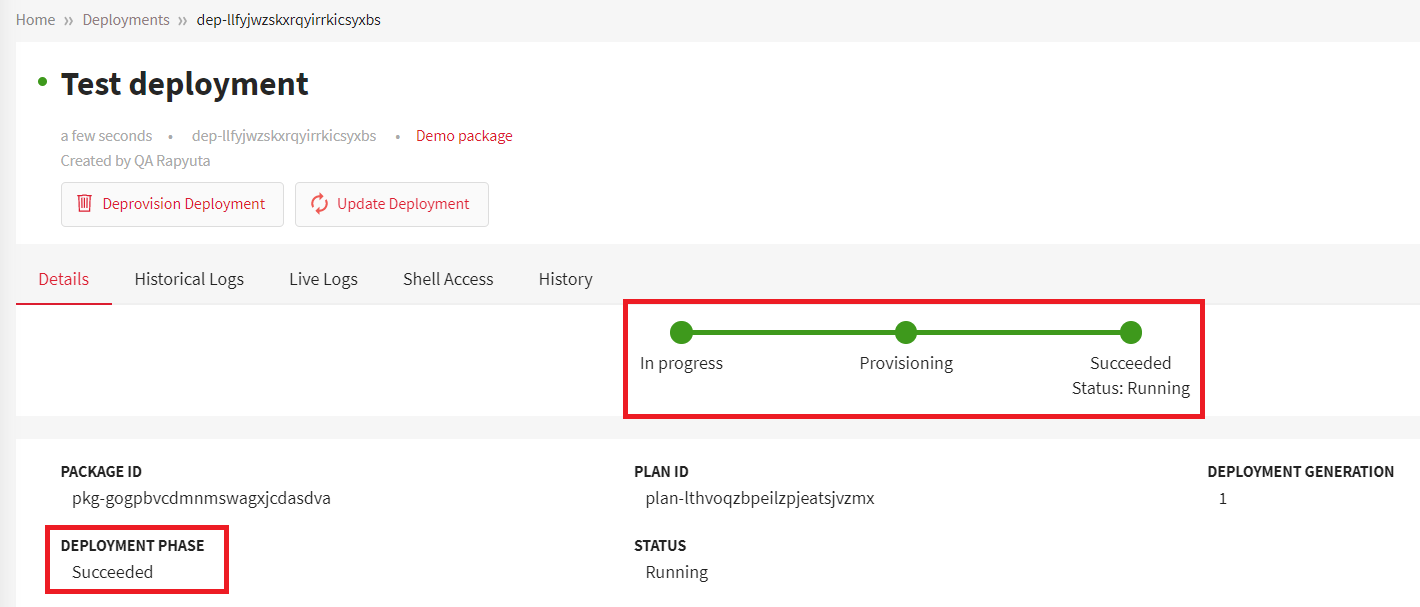
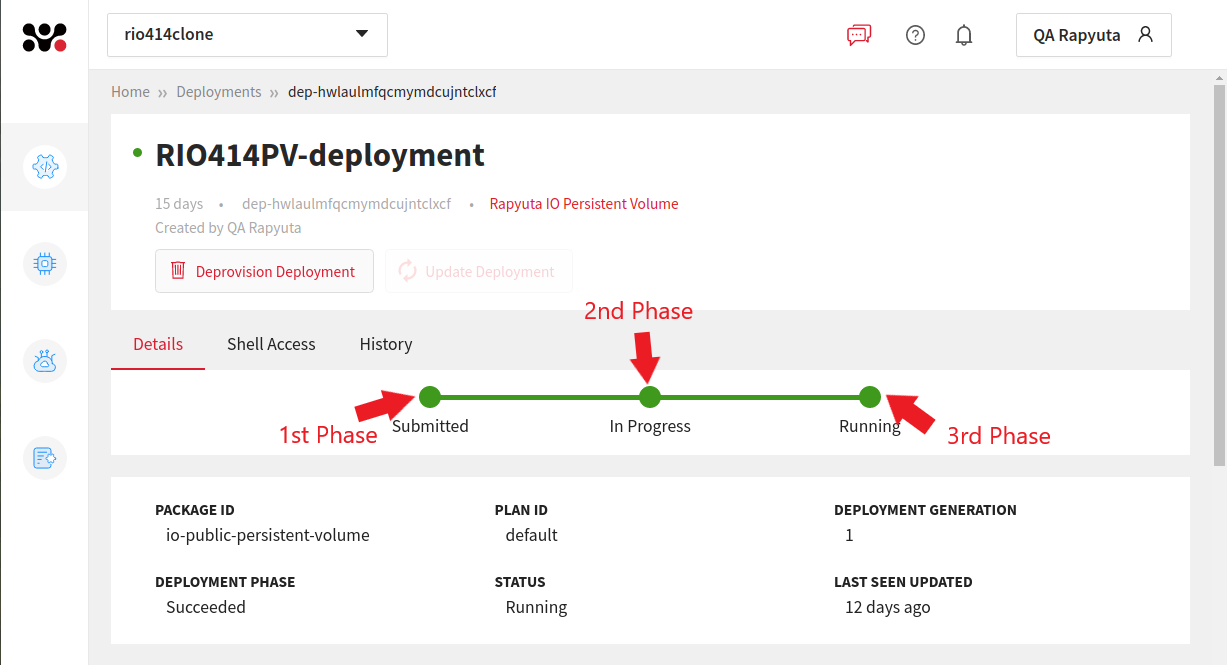
first draft of list deployment page

diff --git a/hugo/content/5_deep-dives/52_software-development/528_deployment-phase.md b/hugo/content/5_deep-dives/52_software-development/528_deployment-phase.md
@@ -9,43 +9,41 @@ tags:
     - Deep Dive
 ---
 ## Phases
-The deployment details page describes the detail of each phases a deployment. Mainly the the deployment undergoes into the 3 following phase after a deployment is initiated.
-
-1. Submitted: This is the first stage of a deployment. The label **Submitted** indicates that the deployment is accepted by the platform and moves to the second stage.
-
-2. In progress: After the deployment is submitted successfully and , and if there are no errors, it moves to the final stage. If the platform encounters any error, the following error status are displayed.
-
-* Provisioning error
-* Failed to Start
-* Unknown
-
-3. Running: After successfully completing the **In Progress** phase, and if there are no errors, the final status is displayed as **Running**. At this stage, your deployment is running successfully on the platform. If the platform encounters any error at this stage, the following errors status are displayed.
-
-* Failed to Update
-* Runtime error
-* Device offline
-* Partially de-provisioned
-
-The lifecycle of a deployment consists of multiple phases. The **DEPLOYMENT PHASE**
-indicates the current phase of the deployment in its lifecycle.
-
-The below table lists the phases of deployment as they appear in the lifecycle:
-
-
-| Deployment phase | Description |
-| ---------------- | ----------- |
-| Submitted | accepts request to deploy a package and starts deployment process |
-| In progress | pulls a docker image and creates a running instance of the image (docker container) for each executable of the component |
-| Succeeded | each executable of every component is successfully started |
-| Failed to start | error occurred during In progress phase |
-| Partially deprovisioned | you deprovisioned a deployment, but there is at least one component that could not be deprovisioned |
-| Deployment stopped | you deprovisioned a deployment, and all of its components are stopped |
-| Failed To Update | One or more component failed while updating the deployment |
+The lifecycle of a deployment consists of mainly 3 phases and the platform displays the status of the deployment at each phase. 
 
 ![Deployment](/images/core-concepts/deployments/deployment-phase.png?classes=border,shadow&width=60pc)
 
+1. **First Phase**: In the first phase of deployment, the status is displayed as **Submitted** after the deployment is accepted by the platform and moves to the second phase.
+
+2. **Second Phase**: In the second phase, one the following status is displayed.
+
+* **In Progress**: This status is displayed if no errors are encountered and the deployment process moves to the 3rd phase.
+* **Provisioning error**: This status is displayed if any error is encountered during the provisioning of the deployment.
+* **Failed to Start**:  This status is displayed if the platform encounters an error while processing a deployment.
+* **Unknown**: This status is displayed if the platform is unaware of the current status.
+
+The following image displayed the status of the deployment when the deployment encounters an error in the second phase.
+![Deployment](/images/core-concepts/deployments/second-stage-error.png?classes=border,shadow&width=60pc) 
+
+3. **Third Phase**: If no errors are encountered in the second phase, the deployment process moves to the third phase and one of the following statuses is displayed.
+
+* **Running**: This status is displayed if no errors are encountered and the deployment is successful.
+* **Failed to Update**: This status is displayed if an error is encountered during the update process. 
+* **Runtime error**: This status is displayed if any component or platform encounters an error while running a deployment. 
+* **Device offline**: This status is displayed if the device goes offline due to some error.
+* **Partially de-provisioned**: This status is displayed if you have deprovisioned a deployment, but there is at least one component that could not be deprovisioned.
+
+![Deployment](/images/core-concepts/deployments/third-stage-error.png?classes=border,shadow&width=60pc) 
+
+
+{{%notice note%}}
+To know more or troubleshoot the errors encountered during the deployment phase, [click here](/6_troubleshoot/611_deployment-error-codes/#error-codes).
+{{%/notice%}}
+
+
+
 ## Status
-rapyuta.io allows you to view the current status of all the available deployments in a list form. If any deployment encounters any errors or failures, you can also view the details with the error codes just by hovering over the respective statuses. 
+rapyuta.io allows you to view the current status of all the available deployments in a list form. If any deployment encounters any errors or failures, you can also view the details with the error codes just by hovering over the *i* icon next to the error statuses. 
 
 The following image displays the list view of deployments available on the platform.
 
